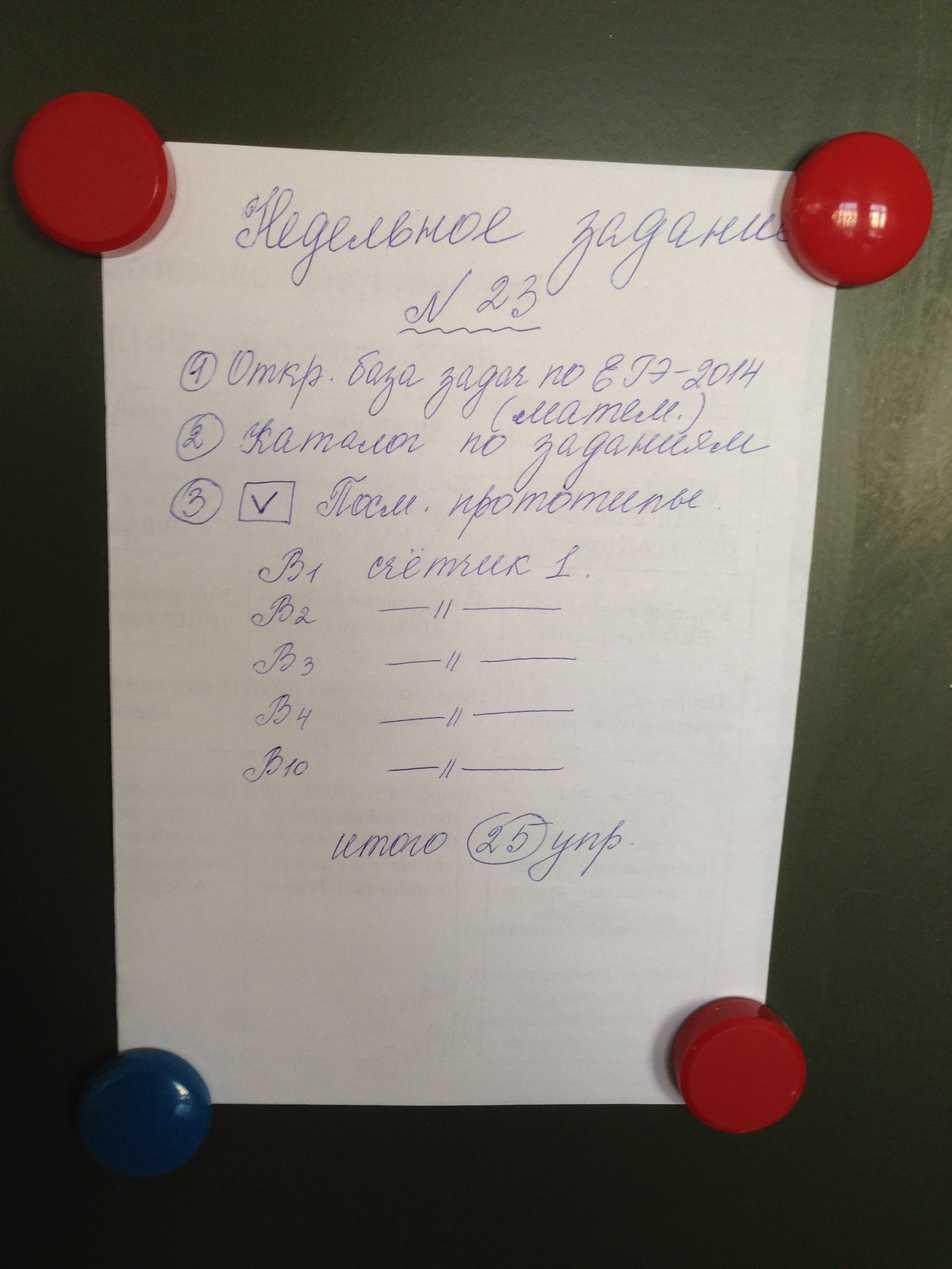
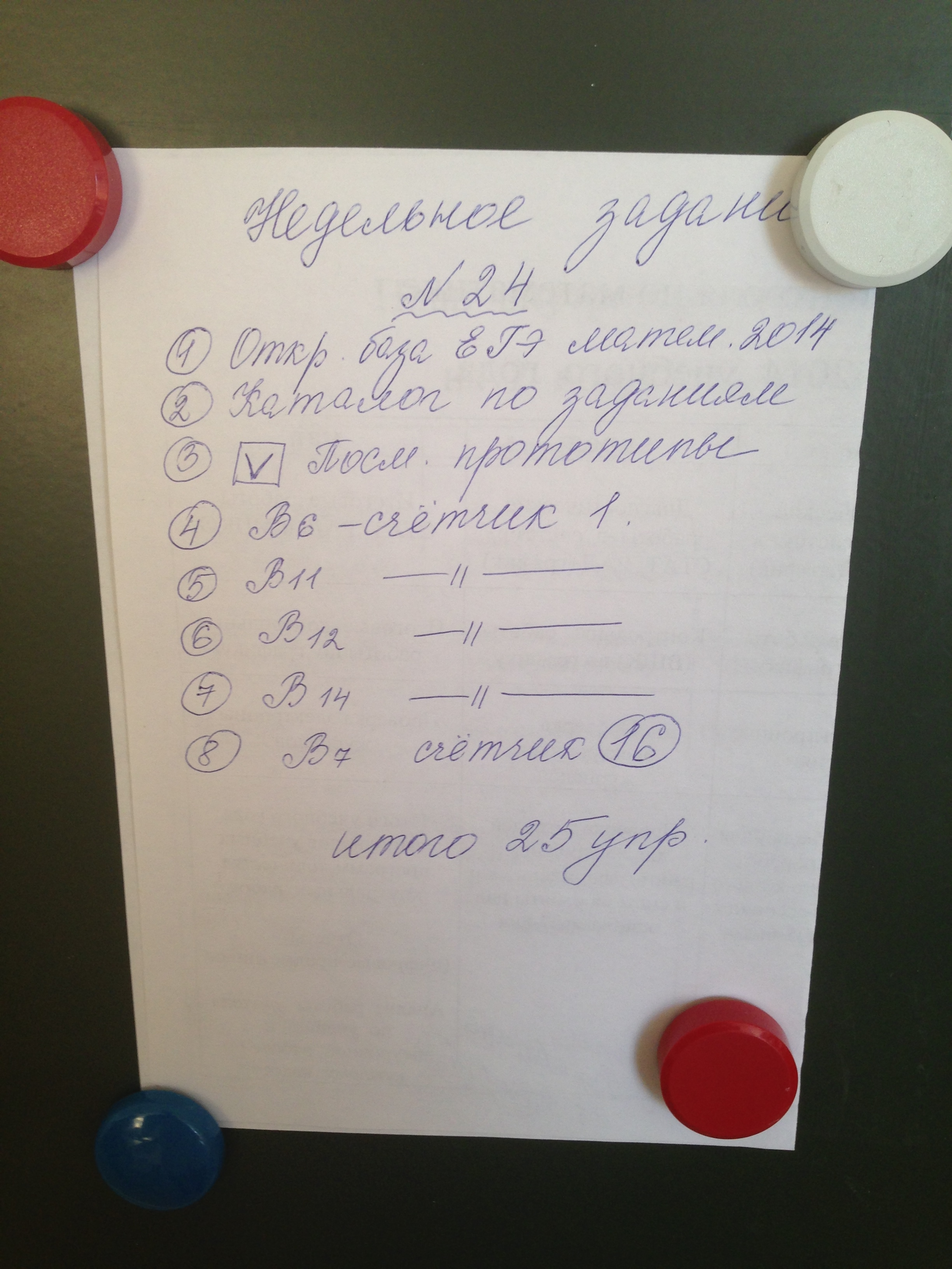
Update

diff --git a/index.html b/index.html
@@ -5,7 +5,7 @@
 	<link rel="stylesheet" href="style.css">
 </head>
 <body>
-	<div id="num">23</div>
+	<div id="num">24</div>
 	<div id="name">Недельное<br>Задание</div>
 	<img src="current.jpg" alt="НЗ" id="H3">
 	<div id="rel">
